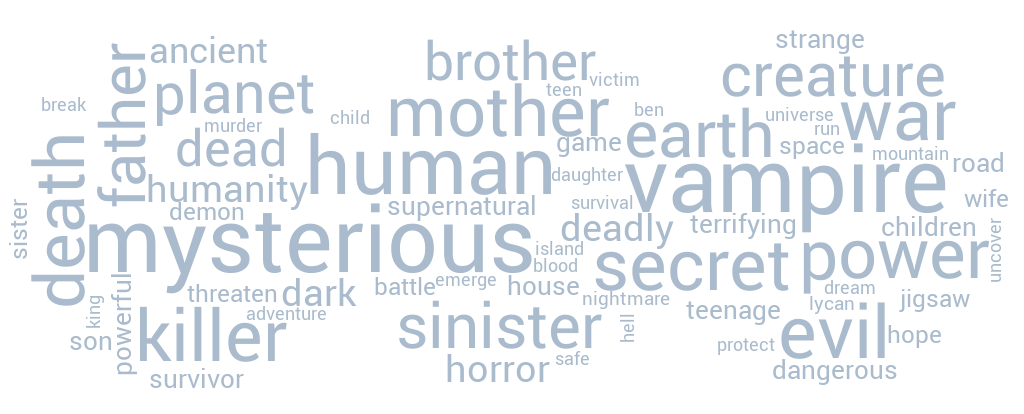
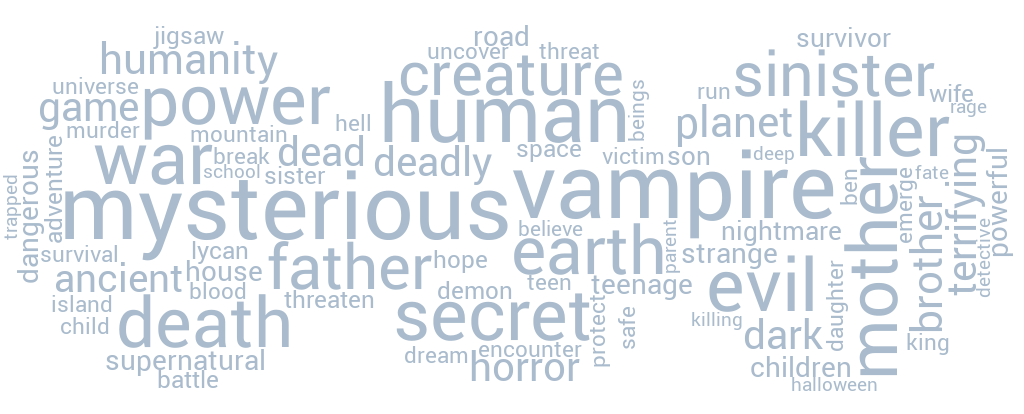
Implementa conexão com banco de dados

Changed region(s): [[0.0, 0.058, 1.0, 0.9565]]

diff --git a/app/routes.py b/app/routes.py
@@ -1,9 +1,12 @@
 import os
 import pandas
 from flask import Blueprint, request, render_template, flash, redirect, url_for
+from sqlalchemy import inspect
+
 from .context_engine import get_context
+from .data_base import data_base, get_data_base_engine, is_missing_table
 from .data_processing import process_diary, process_ratings, process_watched, get_processed_data
-from .file_handler import validate_files, save_files, is_data_available, is_data_processed
+from .file_handler import validate_files, save_files, is_data_available
 from .graph_builder import plot_rewatch_rate, plot_overview_wordcloud, plot_movie_map
 from .TMDB_Client import TMDBClient
 
@@ -11,7 +14,7 @@ main = Blueprint("main", __name__)
 
 @main.route("/", methods=["GET"])
 def main_route():
-    if not is_data_available() or not is_data_processed():
+    if is_missing_table():
         return render_template("upload.html")
     else:
         return redirect(url_for("main.profile_route"))
@@ -35,18 +38,24 @@ def save_files_route():
 @main.route("/api/process-data", methods=["POST"])
 def process_data():
     try:
-        df_diary, df_rating, df_watched, movies = get_processed_data()
-
+        db_connection = get_data_base_engine()
         client = TMDBClient(os.getenv("API_KEY"))
+
+        df_diary, df_rating, df_watched, movies = get_processed_data()
         enriched_data = client.fetch_movies_parallel(movies)
 
         df_enriched = pandas.DataFrame(enriched_data)
         df_watched_enriched = df_watched.merge(df_enriched, how="left", on=["Name", "Year"]).dropna(subset="Genres")
 
-        df_diary.to_csv("data/dataFrames/df_diary.csv", index=False)
-        df_rating.to_csv("data/dataFrames/df_rating.csv", index=False)
-        df_watched.to_csv("data/dataFrames/df_watched.csv", index=False)
-        df_watched_enriched.to_csv("data/dataFrames/df_watched_enriched.csv", index=False)
+        df_diary.to_sql('diary', db_connection, if_exists='replace', index=False)
+        df_rating.to_sql('ratings', db_connection, if_exists='replace', index=False)
+        df_watched.to_sql('watched', db_connection, if_exists='replace', index=False)
+        df_watched_enriched.to_sql('watched_enriched', db_connection, if_exists='replace', index=False)
+
+        print(df_diary)
+        print(df_rating)
+        print(df_watched)
+        print(df_watched_enriched)
 
         plot_overview_wordcloud(df_watched_enriched)
 
@@ -59,13 +68,17 @@ def process_data():
 @main.route("/profile", methods=["GET"])
 def profile_route():
     try:
-        if not is_data_processed():
-            return redirect(url_for("main.main_route"))
+        data_base = get_data_base_engine()
 
-        df_diary = pandas.read_csv("data/dataFrames/df_diary.csv", parse_dates=["Date", "Watched Date"])
-        df_rating = pandas.read_csv("data/dataFrames/df_rating.csv", parse_dates=["Date"])
-        df_watched = pandas.read_csv("data/dataFrames/df_watched.csv", parse_dates=["Date"])
-        df_watched_enriched = pandas.read_csv("data/dataFrames/df_watched_enriched.csv", parse_dates=["Date"])
+        df_diary = pandas.read_sql('diary', data_base)
+        df_rating = pandas.read_sql('ratings', data_base)
+        df_watched = pandas.read_sql('watched', data_base)
+        df_watched_enriched = pandas.read_sql('watched_enriched', data_base)
+
+        df_diary["Watched Date"] = pandas.to_datetime(df_diary["Watched Date"], errors="coerce")
+        df_diary["Day_Of_Week"] = df_diary["Watched Date"].dt.day_name()
+
+        print(df_diary)
 
         context = get_context(df_watched, df_diary, df_rating, df_watched_enriched)
         rewatch_rate_graph = plot_rewatch_rate(df_diary)

diff --git a/app/data_base.py b/app/data_base.py
@@ -1,0 +1,17 @@
+from flask_sqlalchemy import SQLAlchemy
+from sqlalchemy import create_engine, inspect
+import os
+
+data_base = SQLAlchemy()
+
+def get_data_base_engine():
+    return create_engine(os.getenv("DATABASE_URL"))
+
+def is_missing_table():
+    db_connection = get_data_base_engine()
+    inspector = inspect(db_connection.engine)
+
+    existing_tables = set(inspector.get_table_names())
+    required_tables = {"diary", "ratings", "watched", "watched_enriched"}
+
+    return False if len(required_tables - existing_tables) == 0 else True

diff --git a/app/file_handler.py b/app/file_handler.py
@@ -46,10 +46,3 @@ def is_data_available():
         if not os.path.exists(os.path.join(FILES_DIR, filename)):
             return False
     return True
-
-def is_data_processed():
-    processed_files = ["df_diary.csv", "df_rating.csv", "df_watched.csv", "df_watched_enriched.csv"]
-    for filename in processed_files:
-        if not os.path.exists(os.path.join("data/dataFrames", filename)):
-            return False
-    return True

diff --git a/app/TMDB_Client.py b/app/TMDB_Client.py
@@ -4,7 +4,6 @@ import json
 import os
 from tenacity import retry, wait_exponential, stop_after_attempt, retry_if_exception_type
 
-
 class TMDBClient:
     def __init__(self, token):
         self.api_key = token
@@ -42,7 +41,6 @@ class TMDBClient:
     def _make_request(self, url, params):
         response = requests.get(url, params=params, headers=self.headers, timeout=10)
 
-        # Se batermos no rate limit do TMDB, forçamos o erro para o tenacity tentar de novo
         if response.status_code == 429:
             raise Exception("Rate limit do TMDB atingido (Erro 429). Tentando novamente...")
 
@@ -111,7 +109,6 @@ class TMDBClient:
         results = []
         completed_tasks = {}
 
-        # MANTENDO OS SEUS 10 WORKERS
         with concurrent.futures.ThreadPoolExecutor(max_workers=10) as executor:
             for movie in movie_list:
                 task = executor.submit(self.fetch_movie_details, movie)
@@ -125,6 +122,5 @@ class TMDBClient:
                 except Exception as err:
                     print(f"Erro no processamento de uma thread paralela: {err}")
 
-        # 4. SALVA O CACHE NO DISCO ASSIM QUE TODOS OS FILMES TERMINAREM
         self._save_cache()
         return results